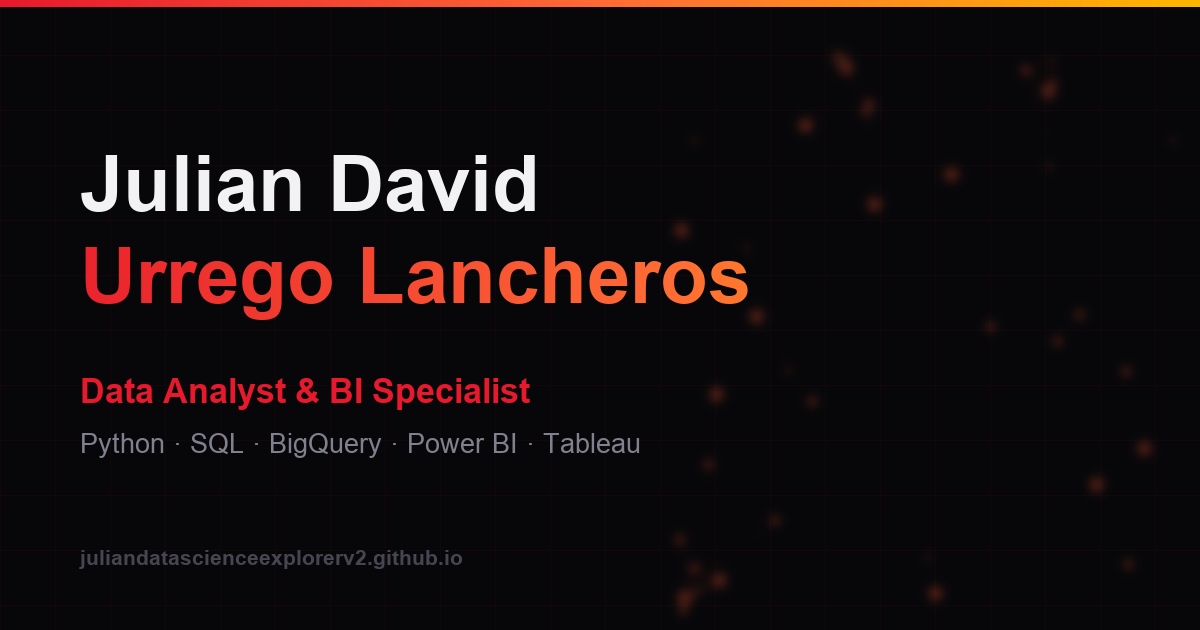
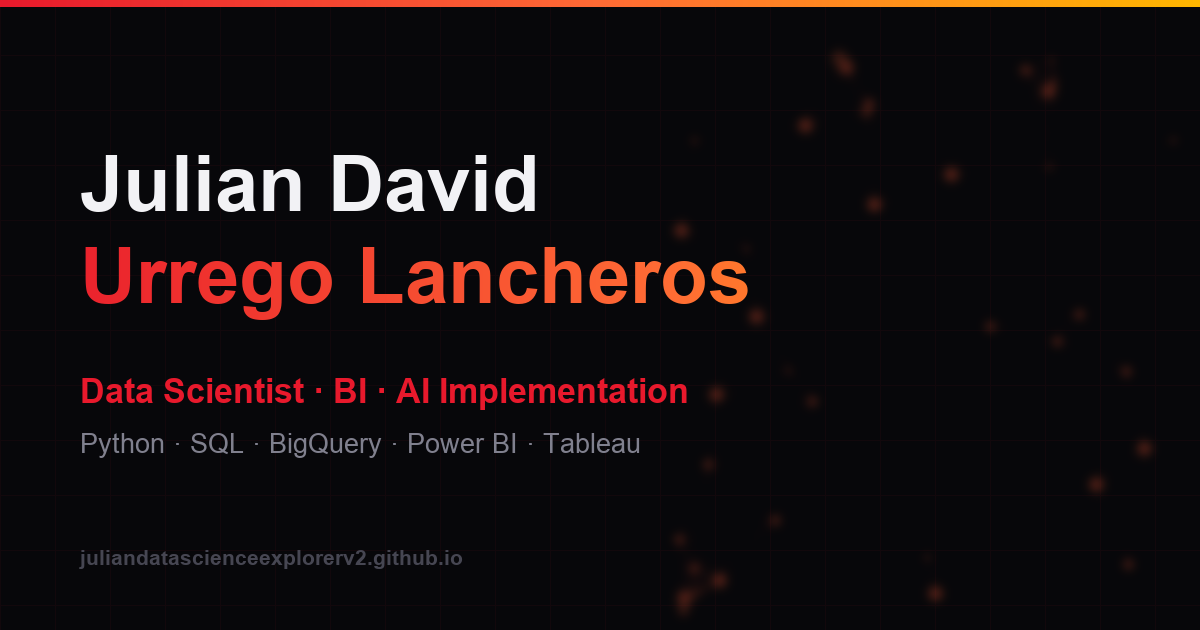
feat: reposition as Data Scientist and AI implementation, expand SEO keywords and structured data

Changed region(s): [[0.1233, 0.6032, 0.5858, 0.6635]]

diff --git a/index.html b/index.html
@@ -4,29 +4,29 @@
 <head>
   <meta charset="UTF-8" />
   <meta name="viewport" content="width=device-width, initial-scale=1.0" />
-  <title>Julian David Urrego Lancheros — Data Analyst & BI Specialist</title>
+  <title>Julian David Urrego Lancheros — Data Scientist, BI & AI Implementation</title>
   <meta name="description"
-    content="Data Analyst & Business Intelligence Specialist with 4.5+ years in marketing, media, and sales analytics. Python, SQL, BigQuery, Power BI, Tableau, Datorama. Portfolio of Julian David Urrego Lancheros." />
+    content="Data Scientist and BI Specialist focused on Machine Learning and AI implementation. 4.5+ years turning marketing, media, and sales data into predictive models, LLM automations, and executive dashboards — Python, SQL, BigQuery, Power BI, Tableau, Datorama." />
   <meta name="theme-color" content="#07070a" />
   <link rel="canonical" href="https://juliandatascienceexplorerv2.github.io/" />
   <meta property="og:type" content="website" />
   <meta property="og:url" content="https://juliandatascienceexplorerv2.github.io/" />
   <meta property="og:site_name" content="Julian David Urrego Lancheros" />
-  <meta property="og:title" content="Julian David Urrego Lancheros — Data Analyst & BI Specialist" />
+  <meta property="og:title" content="Julian David Urrego Lancheros — Data Scientist, BI & AI Implementation" />
   <meta property="og:description"
-    content="4.5+ years turning marketing, media, and sales data into automated pipelines, predictive models, and executive dashboards. Python · SQL · BigQuery · Power BI · Tableau." />
+    content="Data Scientist and BI Specialist: machine learning, AI implementation (LLM integrations), and executive dashboards. Python · SQL · BigQuery · Power BI · Tableau." />
   <meta property="og:image" content="https://juliandatascienceexplorerv2.github.io/og-image.png" />
   <meta property="og:image:width" content="1200" />
   <meta property="og:image:height" content="630" />
   <meta name="twitter:card" content="summary_large_image" />
-  <meta name="twitter:title" content="Julian David Urrego Lancheros — Data Analyst & BI Specialist" />
+  <meta name="twitter:title" content="Julian David Urrego Lancheros — Data Scientist, BI & AI Implementation" />
   <meta name="twitter:description"
-    content="4.5+ years turning marketing, media, and sales data into automated pipelines, predictive models, and executive dashboards." />
+    content="Data Scientist and BI Specialist: machine learning, AI implementation (LLM integrations), and executive dashboards." />
   <meta name="twitter:image" content="https://juliandatascienceexplorerv2.github.io/og-image.png" />
   <link rel="icon" type="image/png" href="favicon.png" />
   <link rel="apple-touch-icon" href="apple-touch-icon.png" />
   <script type="application/ld+json">
-    {"@context":"https://schema.org","@type":"Person","name":"Julian David Urrego Lancheros","url":"https://juliandatascienceexplorerv2.github.io/","image":"https://juliandatascienceexplorerv2.github.io/og-image.png","jobTitle":"Data Analyst & Business Intelligence Specialist","address":{"@type":"PostalAddress","addressLocality":"Bogotá","addressCountry":"CO"},"sameAs":["https://github.com/JulianDataScienceExplorerV2","https://www.linkedin.com/in/julian-david-urrego-lancheros-880a49129/"],"knowsAbout":["Business Intelligence","Marketing Science","Machine Learning","Python","SQL","BigQuery","Power BI","Tableau"]}
+    {"@context":"https://schema.org","@type":"Person","name":"Julian David Urrego Lancheros","url":"https://juliandatascienceexplorerv2.github.io/","image":"https://juliandatascienceexplorerv2.github.io/og-image.png","jobTitle":"Data Scientist, BI & AI Implementation Specialist","description":"Data scientist and BI specialist with 4.5+ years of experience in marketing, media and sales analytics. Builds machine learning models, AI/LLM automations, ETL pipelines and executive dashboards.","address":{"@type":"PostalAddress","addressLocality":"Bogotá","addressCountry":"CO"},"worksFor":{"@type":"Organization","name":"CSA Latam"},"alumniOf":[{"@type":"CollegeOrUniversity","name":"Universidad Nacional de Colombia"},{"@type":"CollegeOrUniversity","name":"ESEIT"},{"@type":"CollegeOrUniversity","name":"Universidad de los Andes"},{"@type":"CollegeOrUniversity","name":"Duke University"}],"knowsLanguage":["es","en"],"sameAs":["https://github.com/JulianDataScienceExplorerV2","https://www.linkedin.com/in/julian-david-urrego-lancheros-880a49129/"],"knowsAbout":["Data Science","Machine Learning","Artificial Intelligence","AI Implementation","Large Language Models","Business Intelligence","Marketing Science","Marketing Analytics","Python","SQL","BigQuery","Power BI","Tableau","Datorama"]}
   </script>
   <link rel="preconnect" href="https://fonts.googleapis.com" />
   <link rel="preconnect" href="https://fonts.gstatic.com" crossorigin />
@@ -1027,21 +1027,22 @@
     </div>
     <div class="hero-content">
       <div class="fbadges">
-        <span class="fb a" data-en>Data Analyst</span><span class="fb a" data-es>Analista de Datos</span>
+        <span class="fb a" data-en>Data Scientist</span><span class="fb a" data-es>Científico de Datos</span>
         <span class="fb b" data-en>BI Specialist</span><span class="fb b" data-es>Especialista BI</span>
         <span class="fb c">Marketing Science</span>
+        <span class="fb b" data-en>AI Implementation</span><span class="fb b" data-es>Implementación de IA</span>
       </div>
       <h1 class="hero-name">
         Julian David<br>
         <span class="grad">Urrego Lancheros</span>
       </h1>
       <p class="hero-sub"><span class="pfx">&gt;&nbsp;</span><span id="typer"></span><span class="caret"></span></p>
-      <p class="hero-desc" data-en>Data analyst and BI specialist with 4.5+ years turning marketing, media, and sales
-        data into automated ETL pipelines, predictive models, and executive dashboards — with Python, SQL, and cloud
-        platforms like BigQuery and AWS.</p>
-      <p class="hero-desc" data-es>Analista de datos y especialista en BI con 4.5+ años convirtiendo datos de marketing,
-        medios y ventas en pipelines ETL automatizados, modelos predictivos y dashboards ejecutivos — con Python, SQL y
-        plataformas cloud como BigQuery y AWS.</p>
+      <p class="hero-desc" data-en>Data scientist and BI specialist with 4.5+ years turning marketing, media, and sales
+        data into automated ETL pipelines, predictive ML models, and executive dashboards — including AI/LLM
+        automations that put models to work. Python · SQL · BigQuery · Power BI.</p>
+      <p class="hero-desc" data-es>Científico de datos y especialista en BI con 4.5+ años convirtiendo datos de
+        marketing, medios y ventas en pipelines ETL automatizados, modelos predictivos de ML y dashboards ejecutivos —
+        incluyendo automatizaciones con IA/LLMs que ponen los modelos a trabajar. Python · SQL · BigQuery · Power BI.</p>
       <div class="hero-ctas">
         <a href="#projects" class="cta1" data-en>View Projects</a>
         <a href="#projects" class="cta1" data-es>Ver Proyectos</a>
@@ -1082,12 +1083,12 @@
         </div>
         <div class="spec-card o">
           <div class="sdot o"></div>
-          <p class="spec-t" data-en>Machine Learning</p>
-          <p class="spec-t" data-es>Aprendizaje Automático</p>
-          <p class="spec-d" data-en>Regression, classification, trend forecasting, and model evaluation pipelines with
-            Scikit-learn, Pandas, and BigQuery.</p>
-          <p class="spec-d" data-es>Regresión, clasificación, pronóstico de tendencias y evaluación de modelos con
-            Scikit-learn, Pandas y BigQuery.</p>
+          <p class="spec-t" data-en>Machine Learning & AI</p>
+          <p class="spec-t" data-es>Machine Learning e IA</p>
+          <p class="spec-d" data-en>Regression, classification, forecasting, and model evaluation with Scikit-learn and
+            BigQuery — plus LLM integrations (Gemini API) and workflow automation.</p>
+          <p class="spec-d" data-es>Regresión, clasificación, pronóstico y evaluación de modelos con Scikit-learn y
+            BigQuery — además de integraciones con LLMs (API de Gemini) y automatización de flujos.</p>
         </div>
         <div class="spec-card g">
           <div class="sdot g"></div>
@@ -1227,6 +1228,12 @@
             como GA4, Google Tag Manager, BigQuery y AWS. Ha entregado analítica para <strong>OMD</strong>,
             <strong>Ariadna Communications Group</strong> y <strong>Super de Alimentos</strong>, y colabora como
             investigador aplicado de ML con la <strong>UPTC</strong>.</p>
+          <p data-en>His current focus is <strong>AI implementation</strong>: embedding machine learning and LLM
+            integrations (Gemini API) into business workflows, automating reporting, and leading practical AI adoption
+            for marketing and sales teams.</p>
+          <p data-es>Su foco actual es la <strong>implementación de IA</strong>: integrar machine learning e
+            integraciones con LLMs (API de Gemini) en flujos de negocio, automatizar reportería y liderar la adopción
+            práctica de IA en equipos de marketing y ventas.</p>
           <p data-en>His profile combines business and technology: a <strong>Business Administration degree from
               Universidad Nacional de Colombia</strong>, a <strong>Specialization in Big Data & Analytics
               (ESEIT)</strong>, and
@@ -1260,7 +1267,7 @@
           <div class="dr"><span class="dk" data-en>Languages</span><span class="dk" data-es>Idiomas</span><span
               class="dv" data-en>Spanish (native) · English (B2+)</span><span class="dv" data-es>Español (nativo) ·
               Inglés (B2+)</span></div>
-          <div class="dr"><span class="dk">Focus</span><span class="dv">BI · Marketing Science · ML</span></div>
+          <div class="dr"><span class="dk">Focus</span><span class="dv">AI Implementation · BI · Marketing Science · ML</span></div>
           <div class="dr"><span class="dk">Status</span><span class="dv" style="color:#00e676"><span
                 class="ldot"></span><span data-en>Open to opportunities</span><span data-es>Abierto a
                 oportunidades</span></span></div>
@@ -1313,8 +1320,8 @@
 
     // TYPEWRITER
     const phrases = {
-      en: ["Data Analyst", "BI Specialist", "Python & SQL", "Marketing Science", "ML Practitioner"],
-      es: ["Analista de Datos", "Especialista BI", "Python & SQL", "Marketing Science", "Machine Learning"]
+      en: ["Data Scientist", "BI Specialist", "Machine Learning & AI", "AI Implementation", "Python & SQL"],
+      es: ["Científico de Datos", "Especialista BI", "Machine Learning e IA", "Implementación de IA", "Python & SQL"]
     };
     let pi = 0, ci = 0, del = false, tt = null;
     function typer() {
